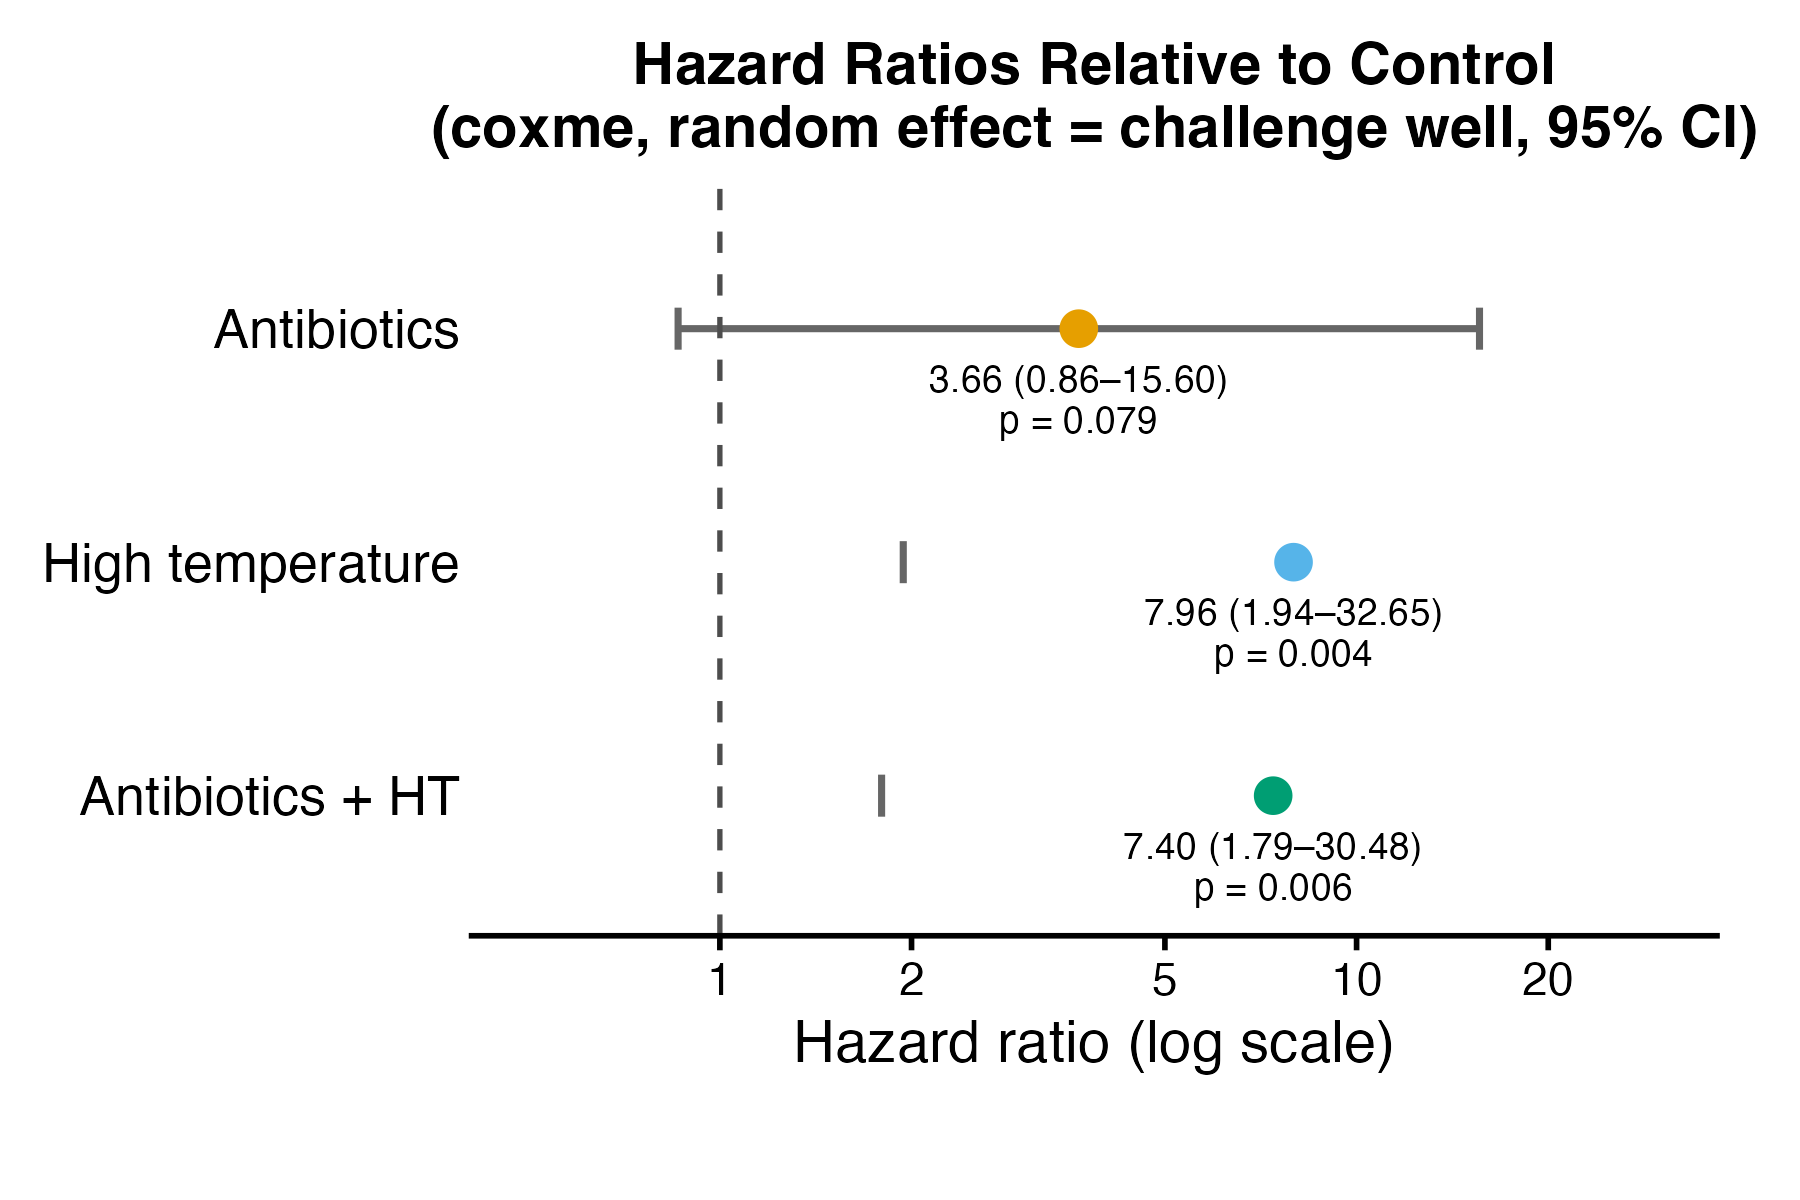
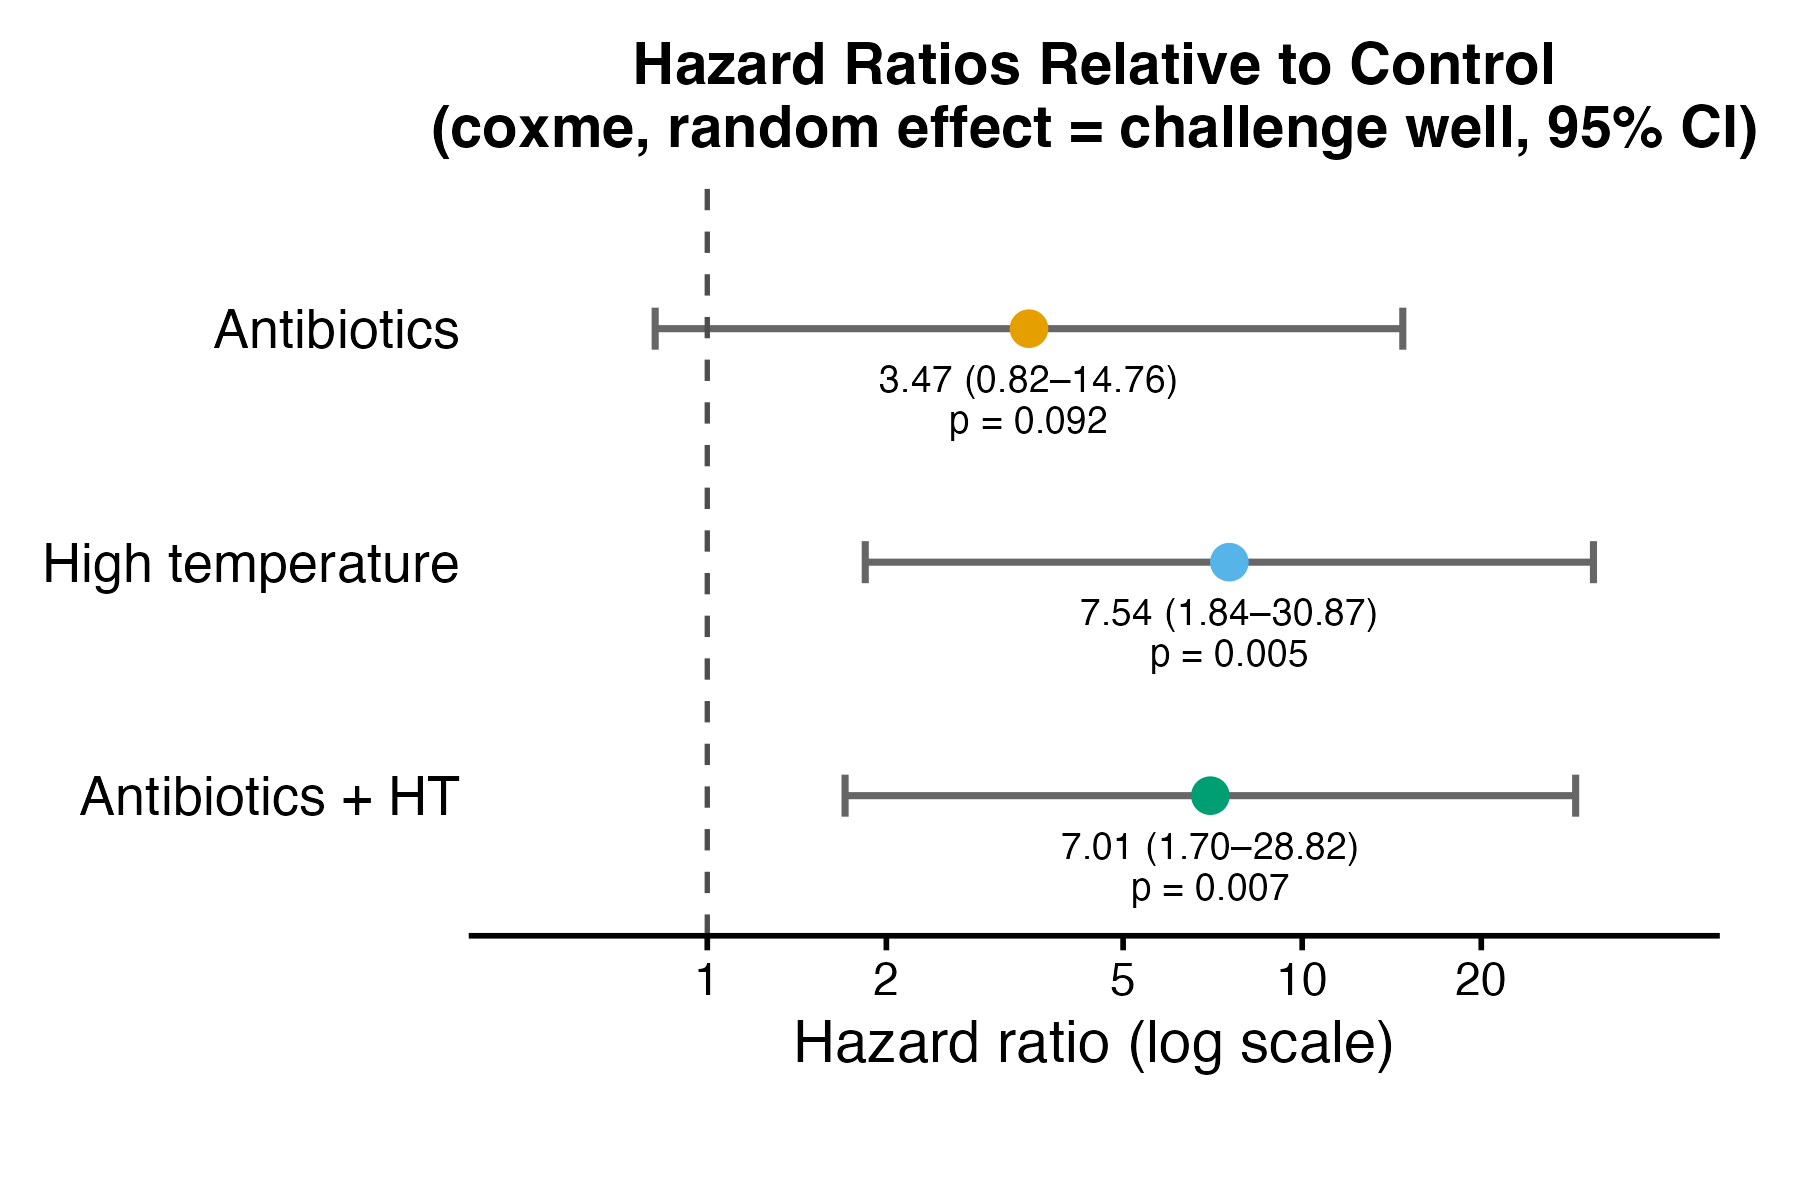
Exclude low-dose controls from the Cox model; fix Figure 5 axis
Two control animals (39, 40) received a lower Vibrio dose. They are now
dropped after well assignment, so every analysed animal had the same dose
(n = 158). HT and AB+HT remain significant; the PH test is unchanged.

The Figure 5 x-axis limit rises from 30 to 40. Intervals crossing the old
limit were dropped, which removed the bars for both heat arms.

diff --git a/README.md b/README.md
@@ -23,7 +23,7 @@ data/
 │   ├── James_MU42022_filtered_not_normalized.RDS   phyloseq object, unrarefied counts
 │   └── sample_metadata.csv                         sample metadata
 └── challenge/
-    └── vibrio_survival.csv                         challenge survival, 160 animals
+    └── vibrio_survival.csv                         challenge survival, 160 animals (2 low-dose controls excluded in 07)
 ```
 
 The RDS carries the OTU table, taxonomy (SILVA v138), sample data and the phylogenetic tree.
